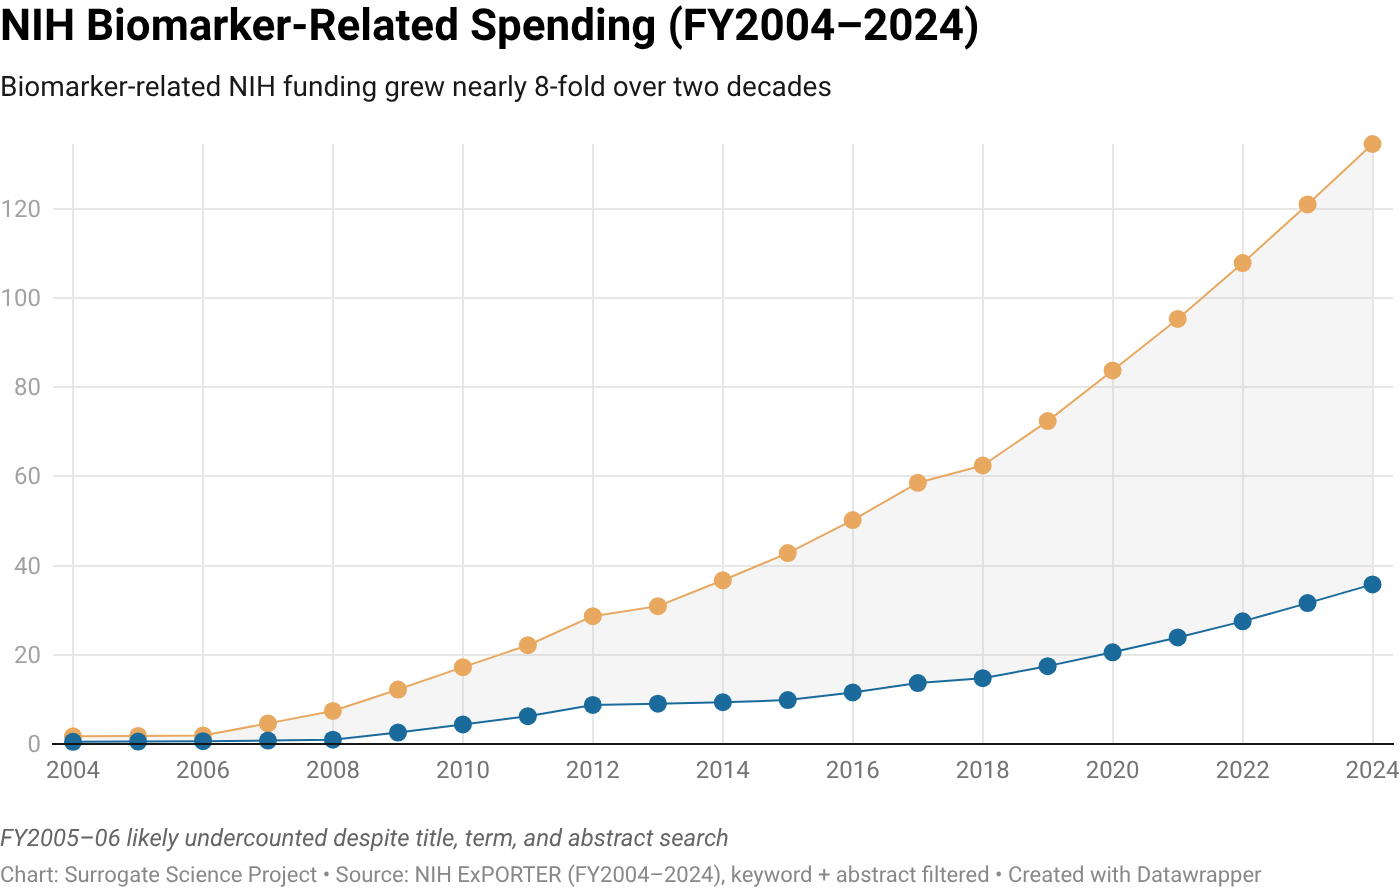
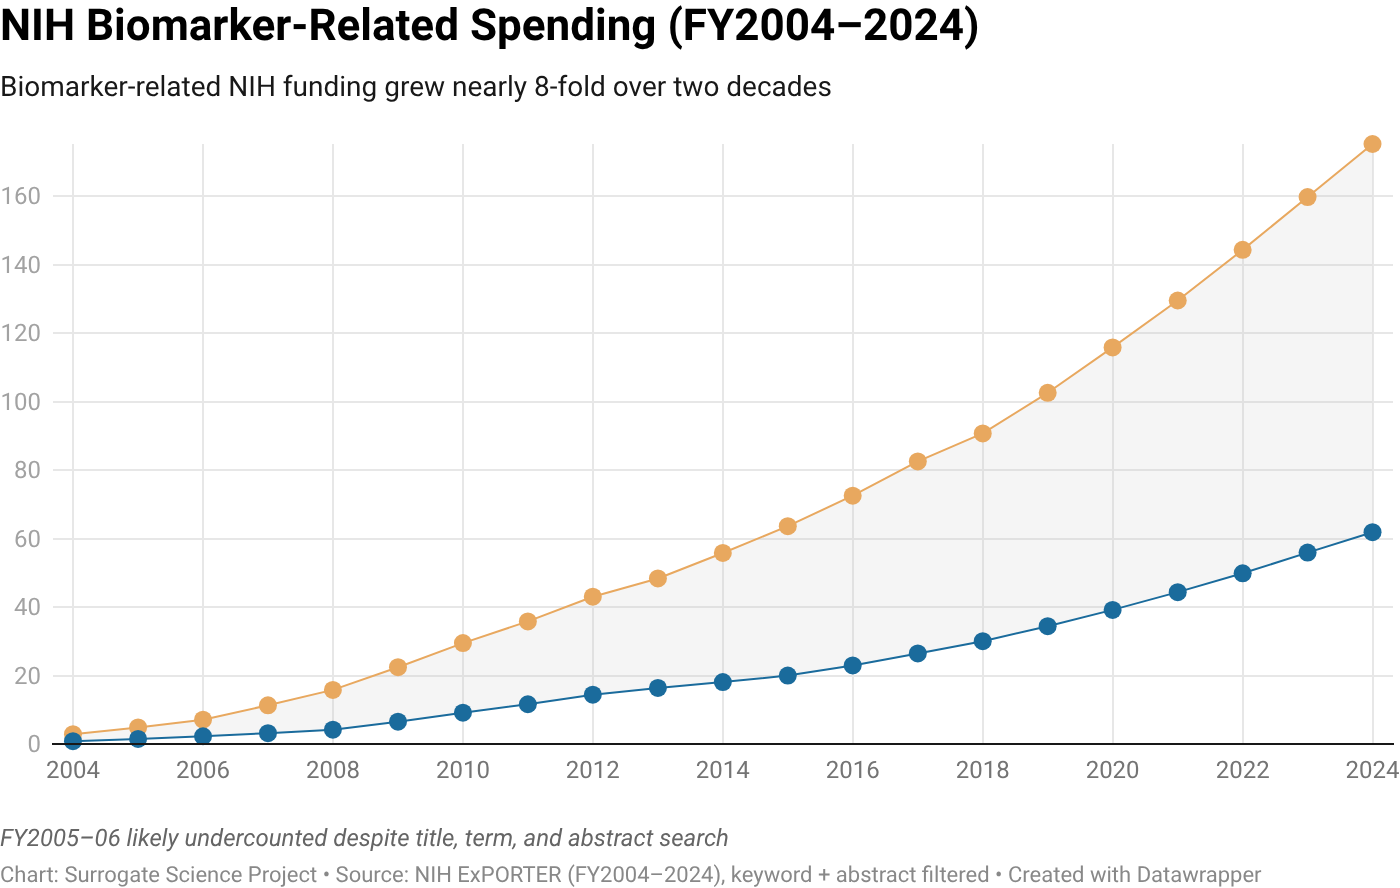
data: update to dataset v3.0 — new term sets, $175B expanded / $62B core
- EXPANDED_ANNUAL_B and CORE_ANNUAL_B updated from nih_biomarker_unified
  v3.0 (344,550 grants, generated 2026-04-03)
- Core: $61.84B total (EXPLICIT_BIOMARKER=TRUE); Expanded: $175.22B total
- FY2005/2006 no longer show extreme dips (v3 abstract-based recovery)
- Comments updated: term definitions now live in scripts/keyword_terms.py
- Script docstring no longer hardcodes "4 terms"/"10 terms" counts

diff --git a/scripts/plot_public_figures.py b/scripts/plot_public_figures.py
@@ -1,17 +1,21 @@
 """
 Produce public-facing figures for surrogate-sci/biomarker-funding.
 
-Reads per-year spending data from data/filtered/SUMMARY.md (hardcoded below
-from the FY2004-2024 run), computes cumulative totals in nominal and
-CPI-adjusted dollars, then UPDATES existing Datawrapper line charts and
-exports their PNGs to visualizations/.
+Reads per-year spending data (hardcoded below from dataset v3.0), computes
+cumulative totals in nominal and CPI-adjusted dollars, then UPDATES existing
+Datawrapper line charts and exports their PNGs to visualizations/.
 
 IMPORTANT: Always update existing chart IDs — never create new ones.
 
 Datawrapper chart IDs:
   VydiG — cumulative nominal (pre-existing, canonical)
-  pzYSe — cumulative 2024-dollar adjusted (created 2026-04-02, to be replaced
-           with pre-existing chart ID if one exists for inflation-adjusted)
+  pzYSe — cumulative 2024-dollar adjusted
+
+Dataset: nih_biomarker_unified_2004-2024.csv, v3.0 (generated 2026-04-03)
+  Term definitions: scripts/keyword_terms.py (CORE_BIOMARKER_TERMS,
+                    EXPANDED_BIOMARKER_TERMS) — do not edit terms here.
+  Core  = grants flagged EXPLICIT_BIOMARKER=TRUE  ($61.84B total, 127,394 grants)
+  Expanded = all grants in the unified dataset    ($175.22B total, 344,550 grants)
 
 Usage:
     python3 scripts/plot_public_figures.py [--export-only]
@@ -31,26 +35,37 @@ from pathlib import Path
 import requests
 
 # ---------------------------------------------------------------------------
-# Source data — from data/filtered/SUMMARY.md (FY2004-2024 ExPORTER pipeline)
+# Source data — from nih_biomarker_unified_2004-2024.csv, dataset v3.0
+# (goofy-kowalevski branch, generated 2026-04-03)
+#
+# Expanded = all grants in the unified dataset (all 10 biomarker terms)
+# Core     = grants flagged EXPLICIT_BIOMARKER=TRUE (4 core terms only)
+#
+# Note: v3 includes abstract-based matching, so FY2005/2006 are no longer
+# dramatically undercounted. BAD_YEARS retained for now — confirm with Manjari
+# whether 2005/2006 annotation still applies given v3 recovery.
 # ---------------------------------------------------------------------------
 YEARS = [
     2004, 2005, 2006, 2007, 2008, 2009, 2010, 2011, 2012, 2013,
     2014, 2015, 2016, 2017, 2018, 2019, 2020, 2021, 2022, 2023, 2024,
 ]
 
-# Annual spending in billions — "expanded" = all 10 biomarker terms matched
+# Annual spending in billions — "expanded" = all grants in the unified dataset
+# (see EXPANDED_BIOMARKER_TERMS in scripts/keyword_terms.py for full term list)
 EXPANDED_ANNUAL_B = [
-    1.71, 0.11, 0.09, 2.71, 2.79, 4.80, 5.02, 4.91, 6.51, 2.25,
-    5.79, 6.10, 7.40, 8.36, 3.87, 9.95, 11.36, 11.54, 12.53, 13.13, 13.55,
+    2.87, 1.98, 2.26, 4.19, 4.50, 6.62, 7.04, 6.34, 7.21, 5.33,
+    7.44, 7.83, 8.90, 10.01, 8.17, 11.87, 13.26, 13.69, 14.79, 15.42, 15.49,
 ]
 
-# Annual spending in billions — "core" = explicit biomarker terms only (4 terms)
+# Annual spending in billions — "core" = grants flagged EXPLICIT_BIOMARKER=TRUE
+# (see CORE_BIOMARKER_TERMS in scripts/keyword_terms.py for full term list)
 CORE_ANNUAL_B = [
-    0.49, 0.06, 0.07, 0.16, 0.18, 1.60, 1.83, 1.85, 2.51, 0.29,
-    0.32, 0.48, 1.72, 2.09, 1.09, 2.71, 3.11, 3.33, 3.60, 4.09, 4.19,
+    0.82, 0.66, 0.78, 0.91, 1.02, 2.34, 2.62, 2.46, 2.79, 1.96,
+    1.73, 1.89, 2.96, 3.50, 3.57, 4.39, 4.76, 5.19, 5.50, 6.04, 5.95,
 ]
 
 # Years with known PROJECT_TERMS metadata gaps in NIH ExPORTER source files
+# TODO: confirm whether 2005/2006 still apply after v3 abstract-based recovery
 BAD_YEARS = {2005, 2006, 2013, 2018}
 
 # ---------------------------------------------------------------------------